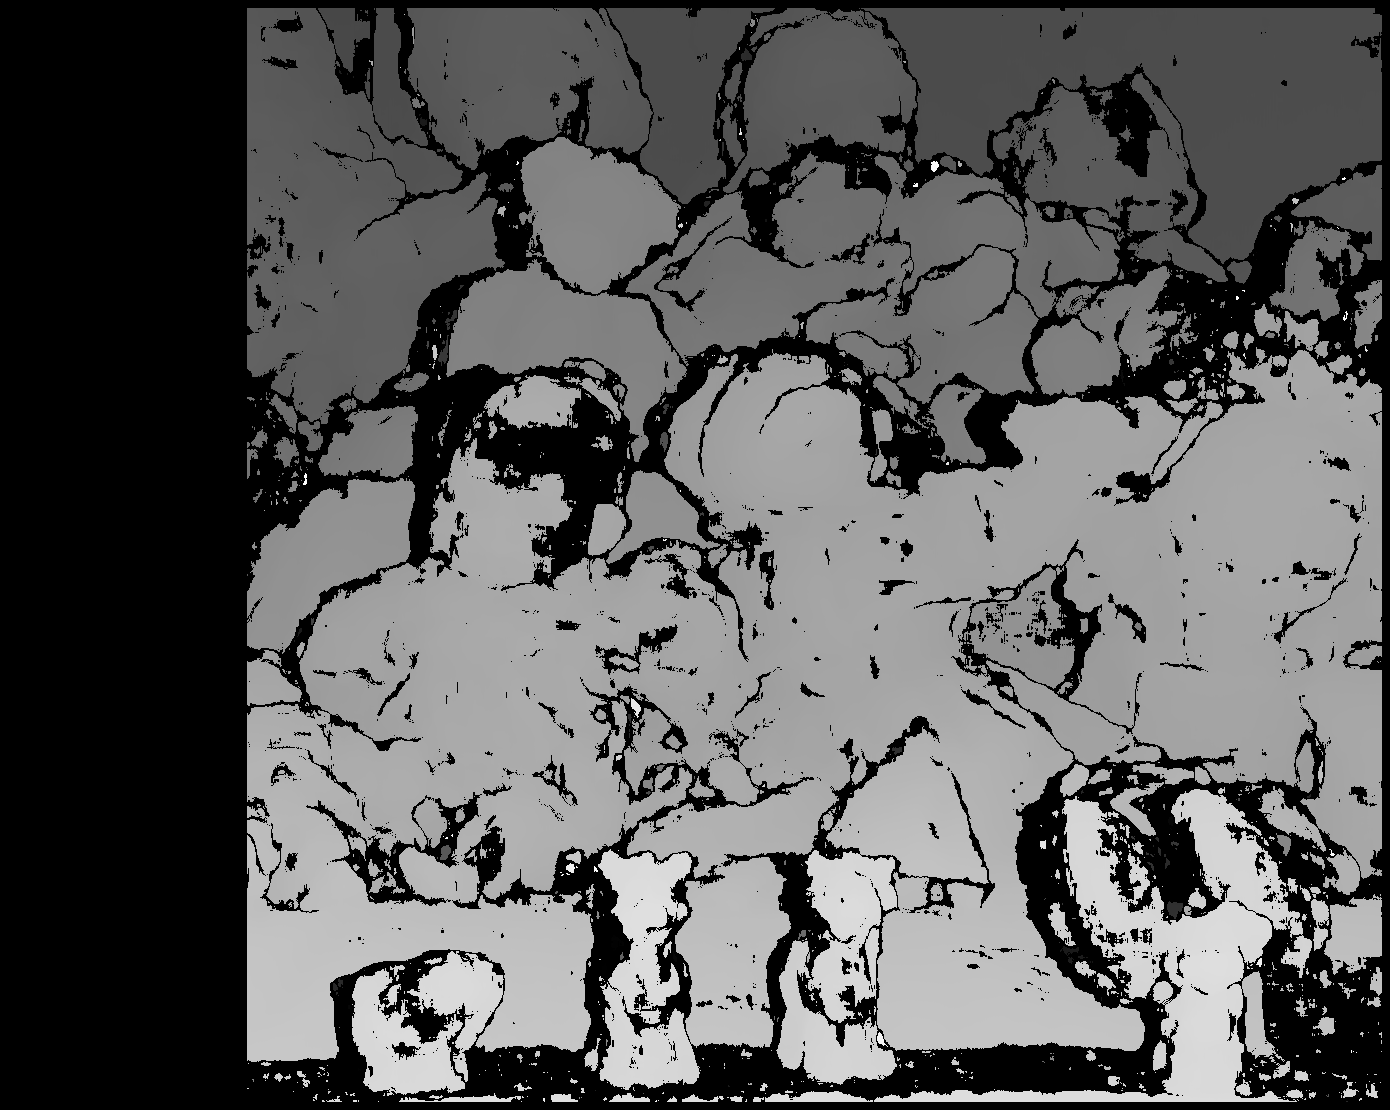
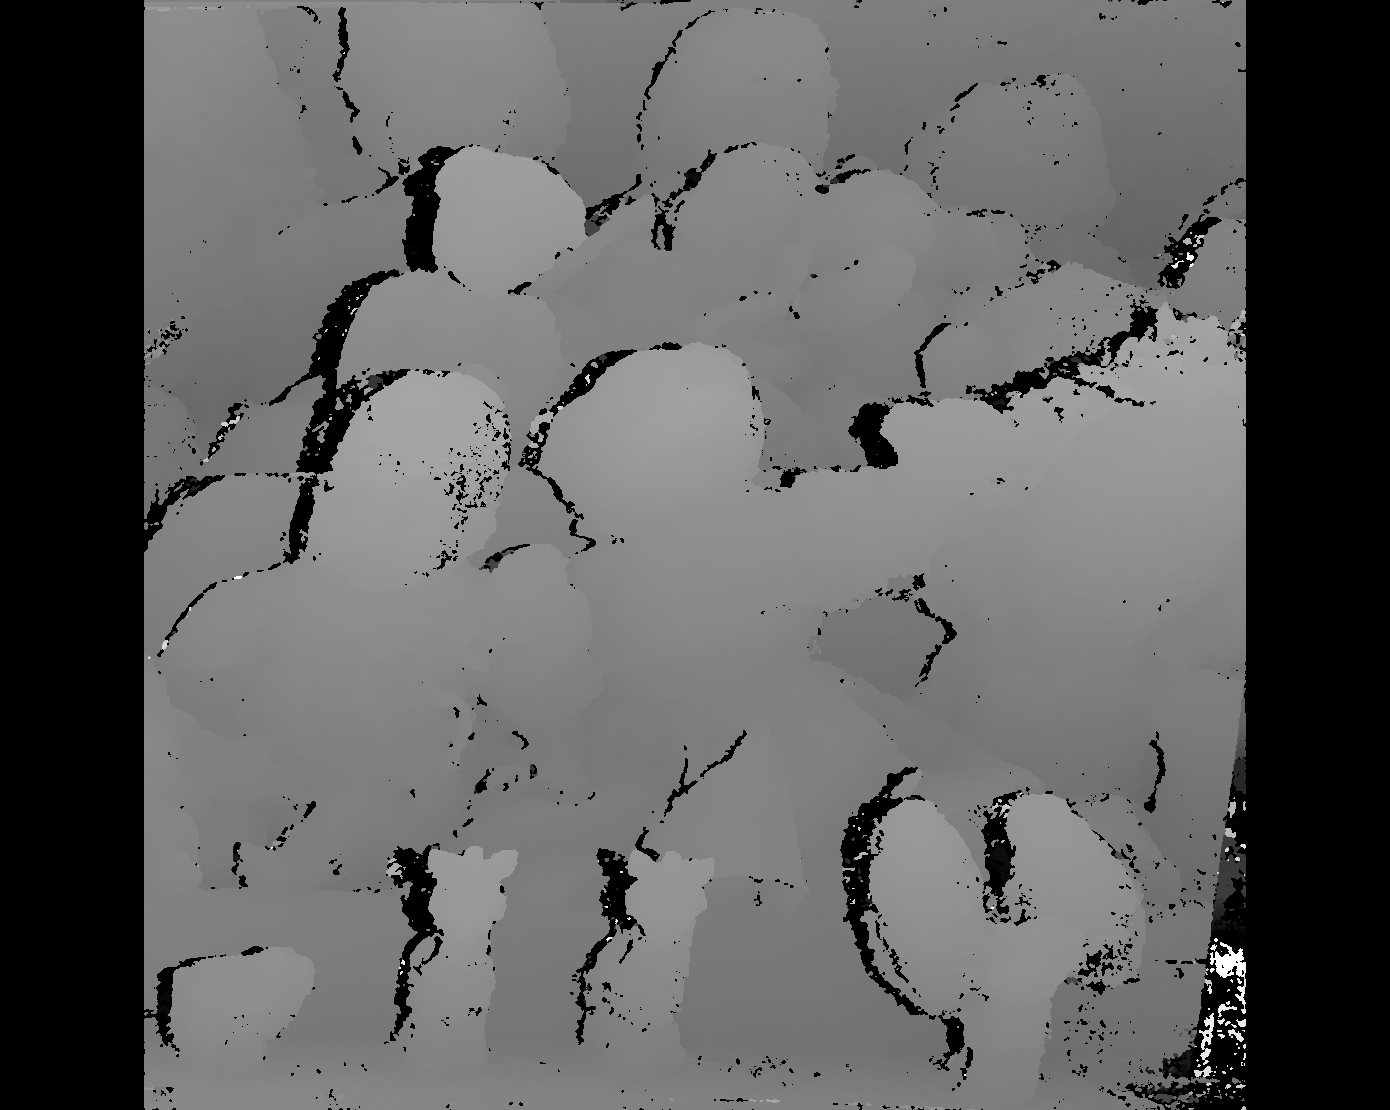
dd

diff --git a/disparity map.3.0.py b/disparity map.3.0.py
@@ -1,0 +1,76 @@
+from matplotlib import pyplot as plt
+import cv2
+import numpy as np
+import matplotlib
+matplotlib.use("TkAgg")
+
+def add_padding(input, padding):
+    rows = input.shape[0]
+    columns = input.shape[1]
+    output = np.zeros((rows + padding * 2, columns + padding * 2), dtype=float)
+    output[ padding : rows + padding, padding : columns + padding] = input
+    return output
+
+def search_bounds(column, block_size, width, rshift):
+    disparity_range = 75
+    padding = block_size // 2
+    right_bound = column
+    if rshift:
+        left_bound = column - disparity_range
+        if left_bound < padding:
+            left_bound = padding
+        step = 1
+    else:
+        left_bound = column + disparity_range
+        if left_bound >= (width - 2*padding):
+            left_bound = width - 2*padding - 2
+        step = -1
+    return left_bound, right_bound, step
+
+grayscale_max = 255
+
+l = cv2.imread('D:/Disparity-Map-Generator/StereoMatchingTestings/Art/view1.png', cv2.IMREAD_GRAYSCALE)
+r = cv2.imread('D:/Disparity-Map-Generator/StereoMatchingTestings/Art/view5.png', cv2.IMREAD_GRAYSCALE)
+
+block_size = 5
+
+padding = block_size // 2
+left_img = add_padding(l, padding)
+right_img = add_padding(r, padding)
+
+height, width = left_img.shape
+
+# d_map = np.zeros((height - padding*2, width - padding*2), dtype=float)
+d_map = np.zeros(l.shape, dtype=float)
+
+rshift = True
+
+for row in range(height - block_size + 1):
+    for col in range(width - block_size + 1):
+
+        bestdist = float('inf')
+        shift = 0
+        left_pixel = left_img[row:row + block_size, col:col + block_size]
+        l_bound, r_bound, step = search_bounds(col, block_size, width, rshift)
+
+        # for i in range(l_bound, r_bound - padding*2):
+        for i in range(l_bound, r_bound, step):
+            right_pixel = right_img[row:row + block_size, i:i + block_size]
+
+            # if euclid_dist(left_pixel, right_pixel) < bestdist :
+            ssd = np.sum((left_pixel - right_pixel) ** 2)
+            # print('row:',row,' col:',col,' i:',i,' bestdist:',bestdist,' shift:',shift,' ssd:',ssd)
+            if ssd < bestdist:
+                bestdist = ssd
+                shift = i
+
+        if rshift:
+            d_map[row, col] = col - shift
+        else:
+            d_map[row, col] = shift - col
+
+disparity_SGBM = cv2.normalize(d_map, d_map, alpha=255,
+                              beta=0, norm_type=cv2.NORM_MINMAX)
+disparity_SGBM = np.uint8(d_map)
+cv2.imwrite("pred/Art/disp1.png", disparity_SGBM)
+            

diff --git a/disparity map2.1.py b/disparity map2.1.py
@@ -122,8 +122,8 @@ img2_rectified = cv.warpPerspective(img2, H2, (w2, h2))
 
 # Matched block size. It must be an odd number >=1 . Normally, it should be somewhere in the 3..11 range.
 block_size = 3
-min_disp = -152
-max_disp = 184
+min_disp = -144
+max_disp = 176
 # Maximum disparity minus minimum disparity. The value is always greater than zero.
 # In the current implementation, this parameter must be divisible by 16.
 num_disp = max_disp - min_disp
@@ -156,4 +156,4 @@ disparity_SGBM = stereo.compute(img1_rectified, img2_rectified)
 disparity_SGBM = cv.normalize(disparity_SGBM, disparity_SGBM, alpha=255,
                               beta=0, norm_type=cv.NORM_MINMAX)
 disparity_SGBM = np.uint8(disparity_SGBM)
-cv.imwrite("pred/Art/disp1.png", disparity_SGBM)
+cv.imwrite("D:/Disparity-Map-Generator/PSNR_Assignment2/2.1 output/disp1.png", disparity_SGBM)

diff --git a/filter.py b/filter.py
@@ -1,0 +1,14 @@
+import cv2 as cv
+import numpy as np
+
+img = cv.imread(
+    "D:/Disparity-Map-Generator/PSNR_Assignment2/3.0 output/disp3.png", cv.IMREAD_GRAYSCALE)
+
+# img = cv.fastNlMeansDenoising(img, None, 15, 8, 15)
+img = cv.blur(img, (15, 15))
+
+img = cv.normalize(img, img, alpha=255,
+                   beta=0, norm_type=cv.NORM_MINMAX)
+img = np.uint8(img)
+cv.imwrite(
+    "D:/Disparity-Map-Generator/PSNR_Assignment2/PSNR_Python/pred/Art/disp1.png", img)
